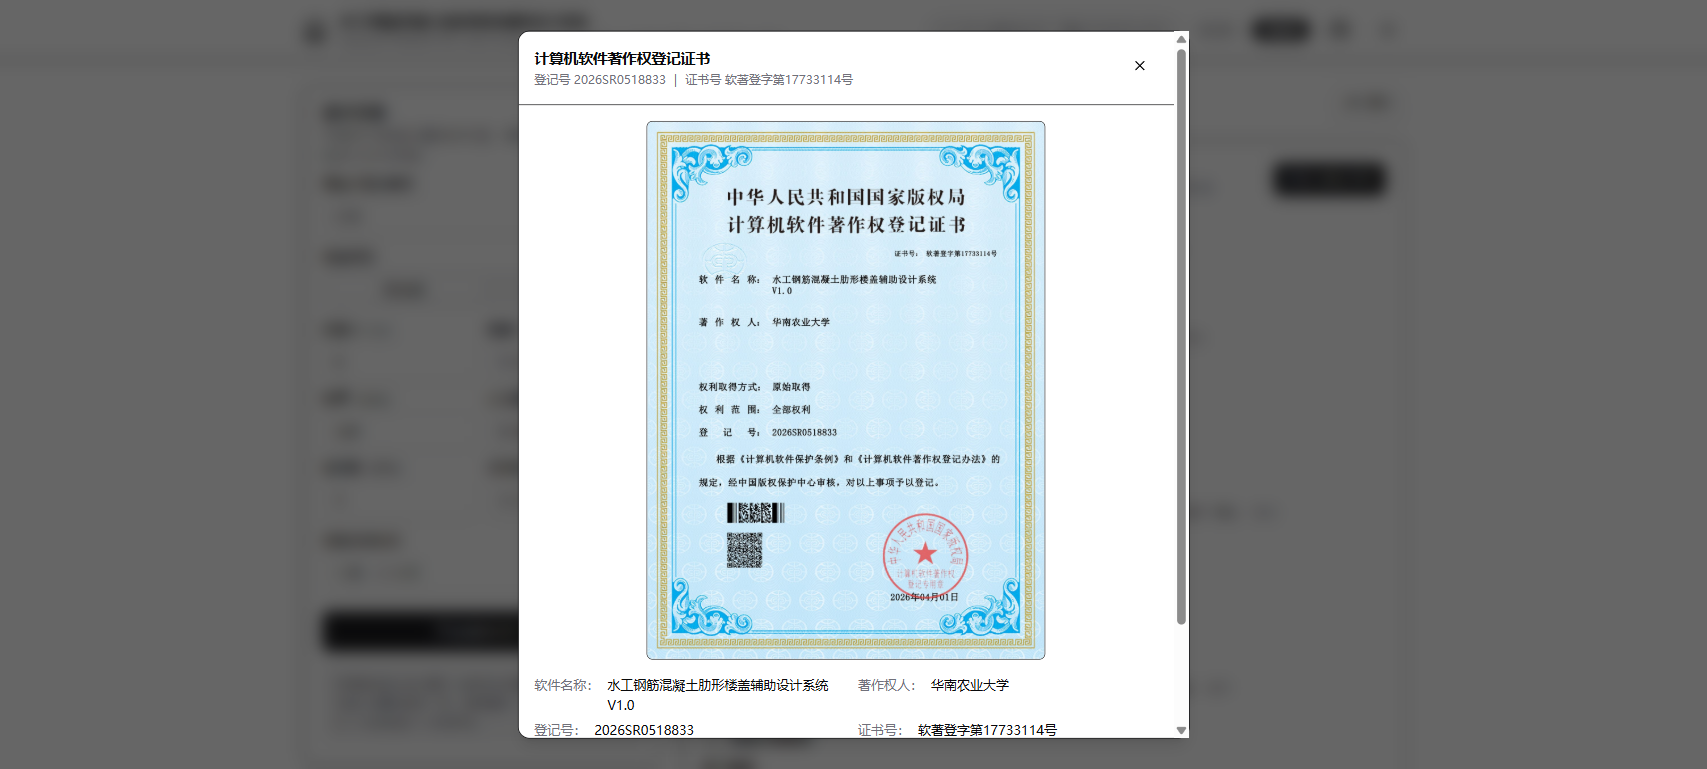
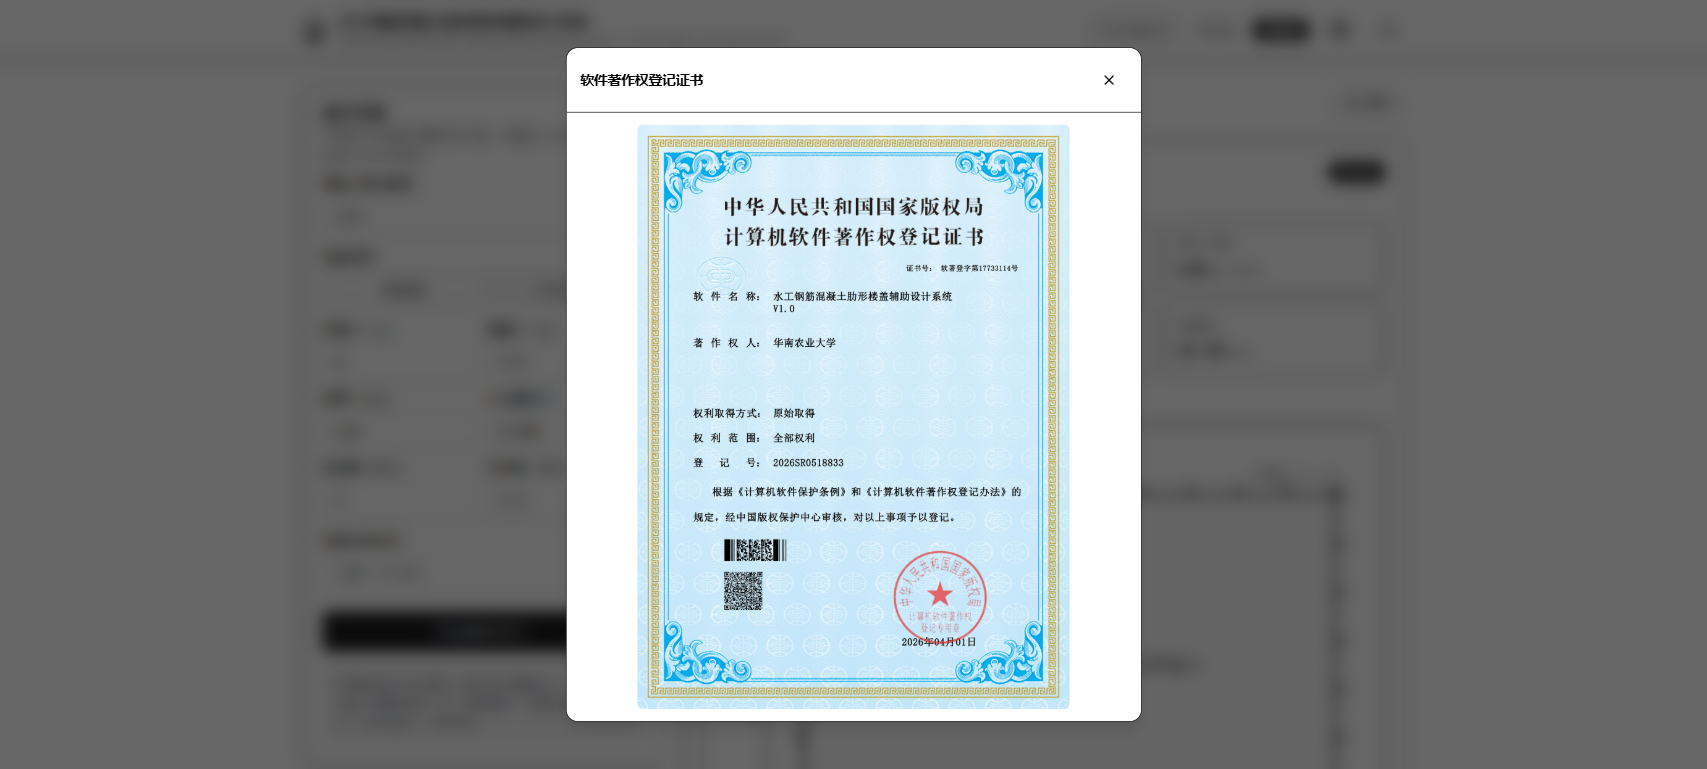
style: simplify copyright display - certificate image only, no owner text on buttons

Changed region(s): [[0.2794, 0.0312, 0.7141, 0.9675], [0.7452, 0.1873, 0.8073, 0.2809], [0.4036, 0.9987, 0.4657, 1.0]]

diff --git a/src/components/CopyrightDialog.tsx b/src/components/CopyrightDialog.tsx
@@ -1,26 +1,8 @@
 /**
- * 软件著作权弹窗：展示《计算机软件著作权登记证书》。
+ * 软件著作权弹窗：展示《计算机软件著作权登记证书》图片。
  */
 import { useEffect } from 'react'
 import { Button } from './ui'
-
-export interface CopyrightInfo {
-  softwareName: string
-  version: string
-  certificateNo: string
-  registrationNo: string
-  owner: string
-  date: string
-}
-
-export const COPYRIGHT: CopyrightInfo = {
-  softwareName: '水工钢筋混凝土肋形楼盖辅助设计系统',
-  version: 'V1.0',
-  certificateNo: '软著登字第17733114号',
-  registrationNo: '2026SR0518833',
-  owner: '华南农业大学',
-  date: '2026年04月01日',
-}
 
 export function CopyrightDialog({ open, onClose }: { open: boolean; onClose: () => void }) {
   // Escape 关闭 + 打开时锁定滚动
@@ -46,50 +28,24 @@ export function CopyrightDialog({ open, onClose }: { open: boolean; onClose: () 
       aria-label="软件著作权登记证书"
     >
       <div
-        className="max-h-[92vh] w-full max-w-2xl overflow-auto rounded-xl border bg-card text-card-foreground shadow-lg"
+        className="max-h-[92vh] w-full max-w-xl overflow-auto rounded-xl border bg-card text-card-foreground shadow-lg"
         onClick={(e) => e.stopPropagation()}
       >
-        <div className="flex items-start justify-between gap-3 border-b p-4">
-          <div>
-            <h2 className="text-[15px] font-semibold tracking-tight">计算机软件著作权登记证书</h2>
-            <p className="mt-0.5 text-xs text-muted-foreground">
-              登记号 {COPYRIGHT.registrationNo} ｜ 证书号 {COPYRIGHT.certificateNo}
-            </p>
-          </div>
+        <div className="flex items-center justify-between gap-3 border-b p-3.5">
+          <h2 className="text-[14px] font-semibold tracking-tight">软件著作权登记证书</h2>
           <Button variant="ghost" size="icon" onClick={onClose} aria-label="关闭">
             <svg className="h-4 w-4" viewBox="0 0 24 24" fill="none" stroke="currentColor" strokeWidth="2" strokeLinecap="round" strokeLinejoin="round"><path d="M18 6 6 18M6 6l12 12" /></svg>
           </Button>
         </div>
-        <div className="p-4">
+        <div className="p-3">
           <img
             src="/soft-copyright.jpg"
-            alt="计算机软件著作权登记证书：软件名称 水工钢筋混凝土肋形楼盖辅助设计系统 V1.0，著作权人 华南农业大学，登记号 2026SR0518833"
-            className="mx-auto max-h-[70vh] w-auto rounded-md border"
+            alt="计算机软件著作权登记证书"
+            className="mx-auto max-h-[76vh] w-auto rounded-md"
             loading="lazy"
           />
-          <dl className="mt-4 grid grid-cols-1 gap-x-6 gap-y-1.5 text-[13px] sm:grid-cols-2">
-            <Info label="软件名称" value={`${COPYRIGHT.softwareName} ${COPYRIGHT.version}`} />
-            <Info label="著作权人" value={COPYRIGHT.owner} />
-            <Info label="登记号" value={COPYRIGHT.registrationNo} />
-            <Info label="证书号" value={COPYRIGHT.certificateNo} />
-            <Info label="权利取得方式" value="原始取得" />
-            <Info label="权利范围" value="全部权利" />
-            <Info label="登记日期" value={COPYRIGHT.date} />
-          </dl>
-          <p className="mt-3 text-[11px] leading-relaxed text-muted-foreground">
-            本软件已依法在国家版权局完成计算机软件著作权登记。根据《计算机软件保护条例》，未经著作权人许可，任何人不得复制、修改或传播本软件的其中受保护部分。
-          </p>
         </div>
       </div>
-    </div>
-  )
-}
-
-function Info({ label, value }: { label: string; value: string }) {
-  return (
-    <div className="flex gap-2">
-      <span className="flex-none text-muted-foreground">{label}：</span>
-      <span className="font-medium">{value}</span>
     </div>
   )
 }

diff --git a/src/App.tsx b/src/App.tsx
@@ -7,7 +7,7 @@ import { appendHistory, clearHistory, loadHistory, type HistoryEntry } from './k
 import { hexToBytes, parseFrame, bytesToHex, buildSlabParamFrame } from './kernel/protocol'
 import { SlabDiagram } from './components/SlabDiagram'
 import { CalculationBookPanel, CalculationBookPrintView } from './components/CalculationBookView'
-import { COPYRIGHT, CopyrightDialog } from './components/CopyrightDialog'
+import { CopyrightDialog } from './components/CopyrightDialog'
 
 const GITHUB_REPO = 'https://github.com/iCxin/ribbed-floor-web'
 
@@ -138,7 +138,7 @@ function App() {
             className="hidden items-center gap-1.5 rounded-full border px-2.5 py-1 text-[11px] font-medium text-muted-foreground transition-colors hover:bg-accent hover:text-foreground sm:inline-flex"
             title="查看软件著作权登记证书"
           >
-            © {new Date().getFullYear()} {COPYRIGHT.owner} · 软著 {COPYRIGHT.registrationNo}
+            © 软件著作权
           </button>
           <Badge variant="secondary" className="font-tabular">v1.0</Badge>
           <Badge>纯前端</Badge>
@@ -497,9 +497,9 @@ function App() {
             计算结果须经注册结构工程师复核后方可用于施工
           </p>
           <p>
-            © {new Date().getFullYear()} {COPYRIGHT.owner} ｜{' '}
+            © 软件著作权{' '}
             <button onClick={() => setCopyrightOpen(true)} className="underline decoration-dotted underline-offset-2 hover:text-foreground">
-              计算机软件著作权登记证书（{COPYRIGHT.registrationNo}）
+              （点击查看登记证书）
             </button>{' '}
             ｜{' '}
             <a href={GITHUB_REPO} target="_blank" rel="noopener noreferrer" className="underline decoration-dotted underline-offset-2 hover:text-foreground">
